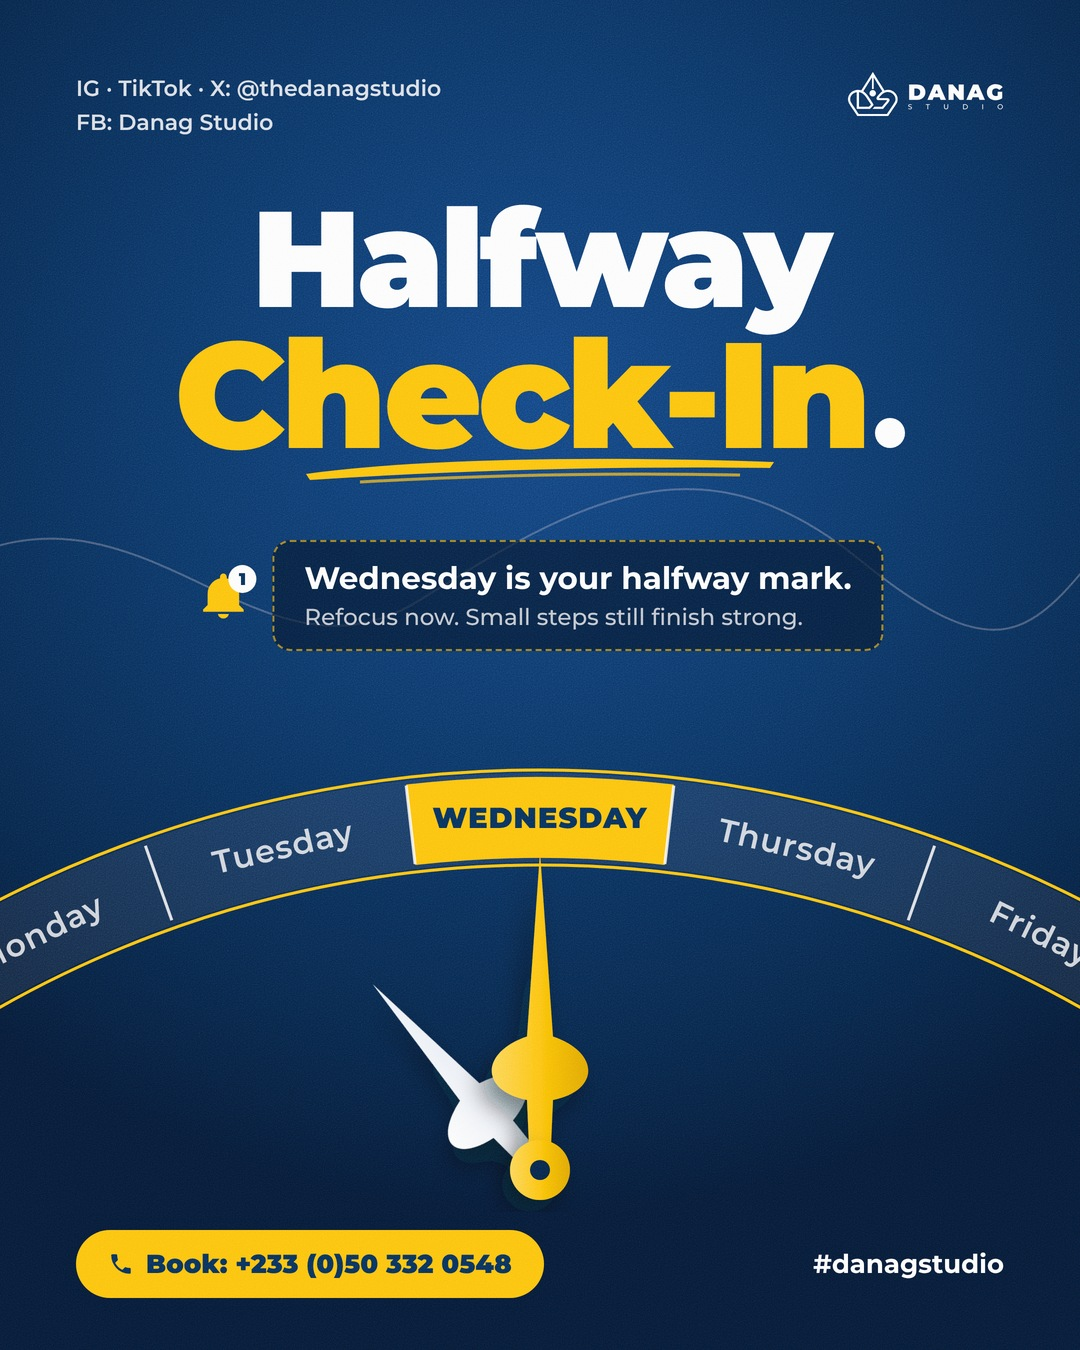
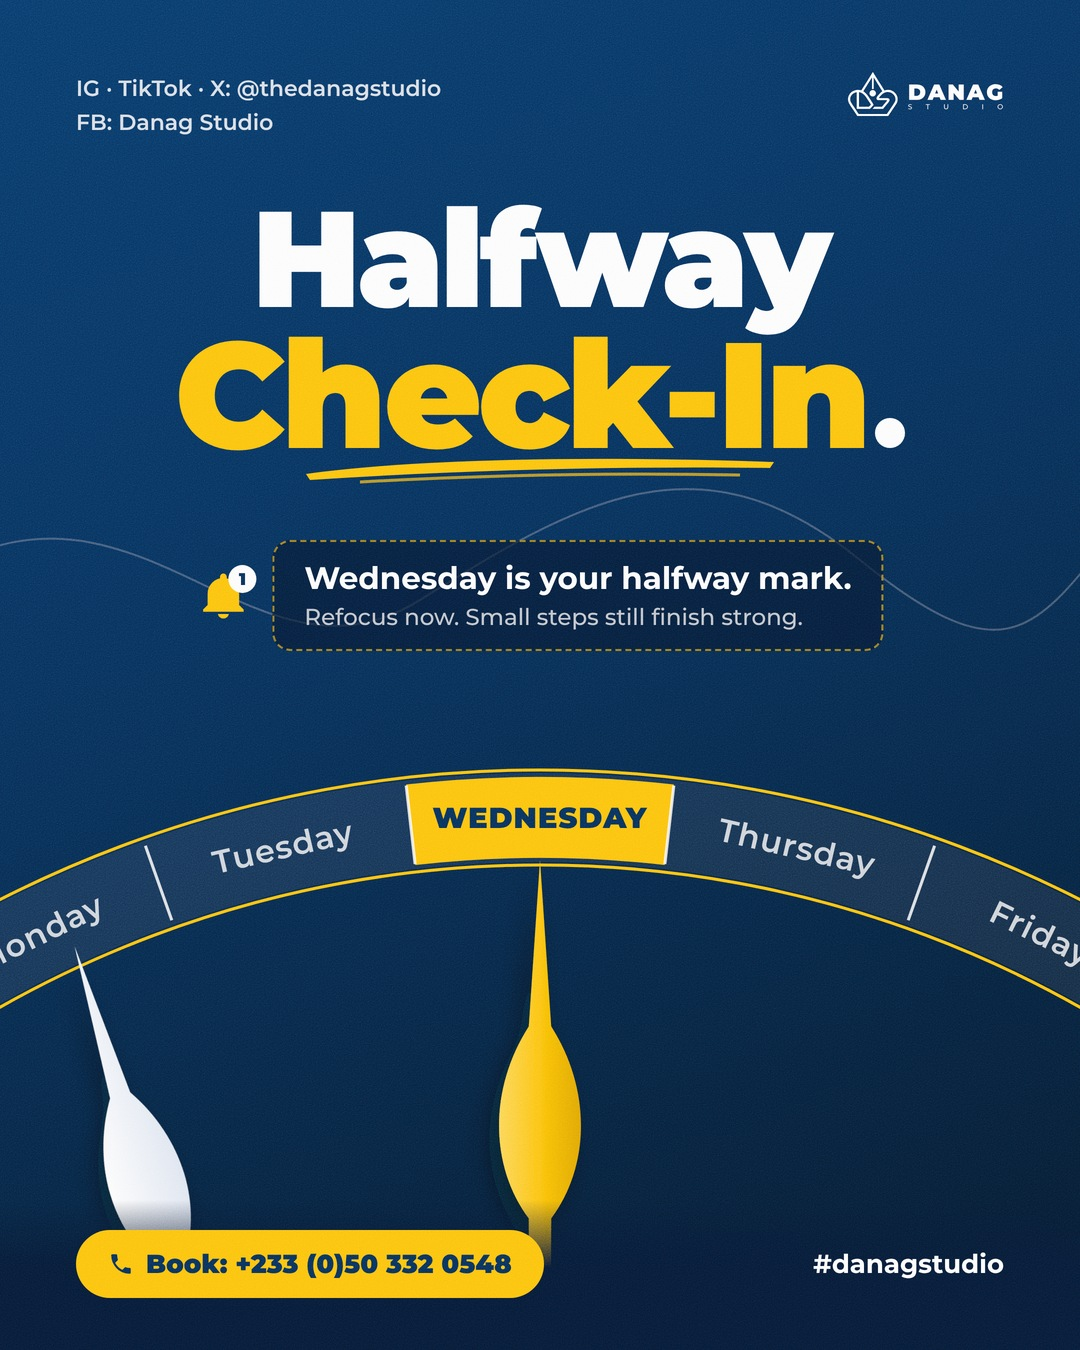
Wed 25 Nov: brand navy, bigger needles
Claude-Session: https://claude.ai/code/session_016a1VN4sEuNiBsko23wNLQZ

diff --git a/promo/render_wed_dial.py b/promo/render_wed_dial.py
@@ -9,7 +9,7 @@ OUT=sys.argv[1] if len(sys.argv)>1 else f'{R}/flyers/2026-11-25-v1'
 logo=re.sub(r'<\?xml[^>]*>','',open('/home/claude/brand/DANAG-STUDIO-horizontal-mono-white.svg').read()).replace('<svg','<svg style="height:44px;width:auto;display:block"',1)
 ic=lambda k,c,s=20: f'<svg viewBox="0 0 24 24" width="{s}" height="{s}" style="color:{c};flex:none">{IC[k]}</svg>'
 CSS=f'''@font-face{{font-family:M;font-weight:500;src:url({F}montserrat-latin-500-normal.woff2)}}@font-face{{font-family:M;font-weight:600;src:url({F}montserrat-latin-600-normal.woff2)}}@font-face{{font-family:M;font-weight:700;src:url({F}montserrat-latin-700-normal.woff2)}}@font-face{{font-family:M;font-weight:900;src:url({F}montserrat-latin-900-normal.woff2)}}
-*{{margin:0;padding:0;box-sizing:border-box}}body{{width:1080px;height:1350px;overflow:hidden;position:relative;font-family:M;background:radial-gradient(ellipse 80% 60% at 50% 30%,#0b3a80 0%,#05295e 45%,#021a3f 80%,#01102a 100%)}}.a{{position:absolute}}'''
+*{{margin:0;padding:0;box-sizing:border-box}}body{{width:1080px;height:1350px;overflow:hidden;position:relative;font-family:M;background:linear-gradient(160deg,#032F65 0%,#022452 40%,#011631 78%,#010F21 100%)}}.a{{position:absolute}}'''
 noise='''<svg class="a" style="inset:0;width:1080px;height:1350px;z-index:20;pointer-events:none;mix-blend-mode:soft-light;opacity:1"><filter id="nz"><feTurbulence type="fractalNoise" baseFrequency=".9" numOctaves="3" stitchTiles="stitch"/><feColorMatrix type="saturate" values="0"/></filter><rect width="100%" height="100%" filter="url(#nz)"/></svg>'''
 # dial
 CX,CY,RO,RI=540,1960,1190,1095
@@ -26,8 +26,9 @@ for a in (-32.5,-19.5,-6.5,6.5,19.5,32.5):
 for d,a in zip(days,angs):
     x,y=pt((RO+RI)/2,a); w=d=='Wednesday'
     band+=f'<text x="{x:.1f}" y="{y:.1f}" transform="rotate({a} {x:.1f} {y:.1f})" text-anchor="middle" dominant-baseline="central" font-family="M" font-weight="{900 if w else 600}" font-size="{29 if w else 32}" letter-spacing="1" fill="{N if w else "rgba(255,255,255,.8)"}">{d.upper() if w else d}</text>'
-def needle(L,ang,fill,px=CX,py=1170):
-    p=f'M0,{-L} L13,{-.42*L} C60,{-.37*L} 60,{-.25*L} 13,{-.22*L} L10,0 L-10,0 L-13,{-.22*L} C-60,{-.25*L} -60,{-.37*L} -13,{-.42*L} Z'
+def needle(L,ang,fill,px,py,w=1):
+    k=L/320*w
+    p=f'M0,{-L} L{9*k:.1f},{-.74*L} C{42*k:.1f},{-.64*L} {40*k:.1f},{-.52*L} {9*k:.1f},{-.44*L} L{8*k:.1f},0 L{-8*k:.1f},0 L{-9*k:.1f},{-.44*L} C{-40*k:.1f},{-.52*L} {-42*k:.1f},{-.64*L} {-9*k:.1f},{-.74*L} Z'
     return f'<path d="{p}" transform="translate({px},{py}) rotate({ang})" fill="{fill}" filter="url(#sh)"/>'
 dial=f'''<svg class="a" style="inset:0;width:1080px;height:1350px;z-index:3" viewBox="0 0 1080 1350"><defs>
 <linearGradient id="gg" x1="0" y1="0" x2="1" y2="0"><stop offset="0" stop-color="#ffd54a"/><stop offset=".5" stop-color="#FFC107"/><stop offset="1" stop-color="#e0a200"/></linearGradient>
@@ -35,8 +36,8 @@ dial=f'''<svg class="a" style="inset:0;width:1080px;height:1350px;z-index:3" vie
 <filter id="sh" x="-50%" y="-20%" width="200%" height="140%"><feDropShadow dx="-10" dy="14" stdDeviation="12" flood-color="#000814" flood-opacity=".55"/></filter></defs>
 <path d="M-40,560 C150,470 260,700 420,600 S700,430 860,560 S1040,620 1140,500" stroke="rgba(255,255,255,.22)" stroke-width="2" fill="none"/>
 {band}
-{needle(250,-42,"url(#ww)")}
-{needle(318,0,"url(#gg)")}<circle cx="540" cy="1170" r="30" fill="url(#gg)" filter="url(#sh)"/><circle cx="540" cy="1170" r="10" fill="#021a3f"/>
+{needle(600,-17,"url(#ww)",250,1520,.62)}
+{needle(640,0,"url(#gg)",540,1500,.62)}
 </svg>'''
 brush=f'''<svg class="a" style="left:300px;top:448px;width:480px;height:40px;z-index:6" viewBox="0 0 480 40"><path d="M6,26 C120,10 300,8 474,14 L470,20 C320,18 160,22 10,32 Z" fill="{G}"/><path d="M60,34 C200,26 330,25 440,27" stroke="{G}" stroke-width="3" fill="none" opacity=".7"/></svg>'''
 bell='<svg viewBox="0 0 24 24" width="54" height="54"><path fill="#FFC107" d="M12 22a2.5 2.5 0 0 0 2.45-2h-4.9A2.5 2.5 0 0 0 12 22zm7-6V11a7 7 0 0 0-5.5-6.84V3.5a1.5 1.5 0 0 0-3 0v.66A7 7 0 0 0 5 11v5l-2 2v1h18v-1z"/></svg>'
